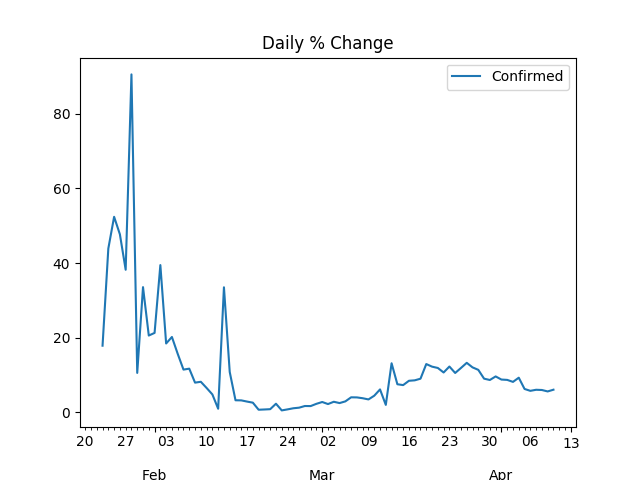
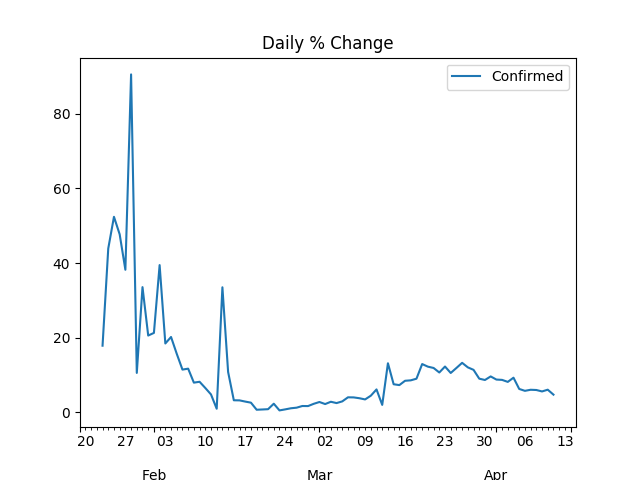
-

diff --git a/en/2020/02/corona.md b/en/2020/02/corona.md
@@ -287,14 +287,14 @@ Time Series
 
 ```python
 ! wget https://raw.githubusercontent.com/datasets/covid-19/master/data/time-series-19-covid-combined.csv
-! zip corona-time.zip time-series-19-covid-combined.csv
+! zip $HOME/Downloads/corona-time.zip time-series-19-covid-combined.csv
 ! rm time-series-19-covid-combined.csv
 ```
 
 ```python
-import pandas as pd
-import zipfile
-with zipfile.ZipFile('corona-time.zip', 'r') as z:
+import pandas as pd, zipfile, os
+
+with zipfile.ZipFile(os.environ['HOME'] + '/Downloads/corona-time.zip', 'r') as z:
     df =  pd.read_csv(z.open('time-series-19-covid-combined.csv'),parse_dates=['Date'])
 df = df[['Date','Confirmed']]
 df = df.set_index('Date')
@@ -307,10 +307,10 @@ plt.savefig('timeseries.png')
 ```text
             Confirmed
 Date                 
-2020-04-07       1.43
-2020-04-08       1.51
-2020-04-09       1.60
-2020-04-10       1.69
+2020-04-08   1.511104
+2020-04-09   1.595350
+2020-04-10   1.691719
+2020-04-11   1.771514
 ```
 
 ![](timeseries.png)
@@ -328,11 +328,11 @@ plt.savefig('rate.png')
 ```text
             Confirmed
 Date                 
-2020-04-06       5.74
 2020-04-07       6.02
 2020-04-08       5.96
 2020-04-09       5.58
 2020-04-10       6.04
+2020-04-11       4.72
 ```
 
 ![](rate.png)
@@ -346,7 +346,7 @@ County Level Data (NYT)
 ! rm us-counties.csv
 ```
 
-Files - [corona.csv](corona.csv), [corona-time.zip](corona-time.zip), [alpha3country.csv](alpha3country.csv), [util.py](util.py)
+Files - [corona.csv](corona.csv), [alpha3country.csv](alpha3country.csv), [util.py](util.py)
 
 [Colors](https://matplotlib.org/3.1.0/gallery/color/named_colors.html)
 
